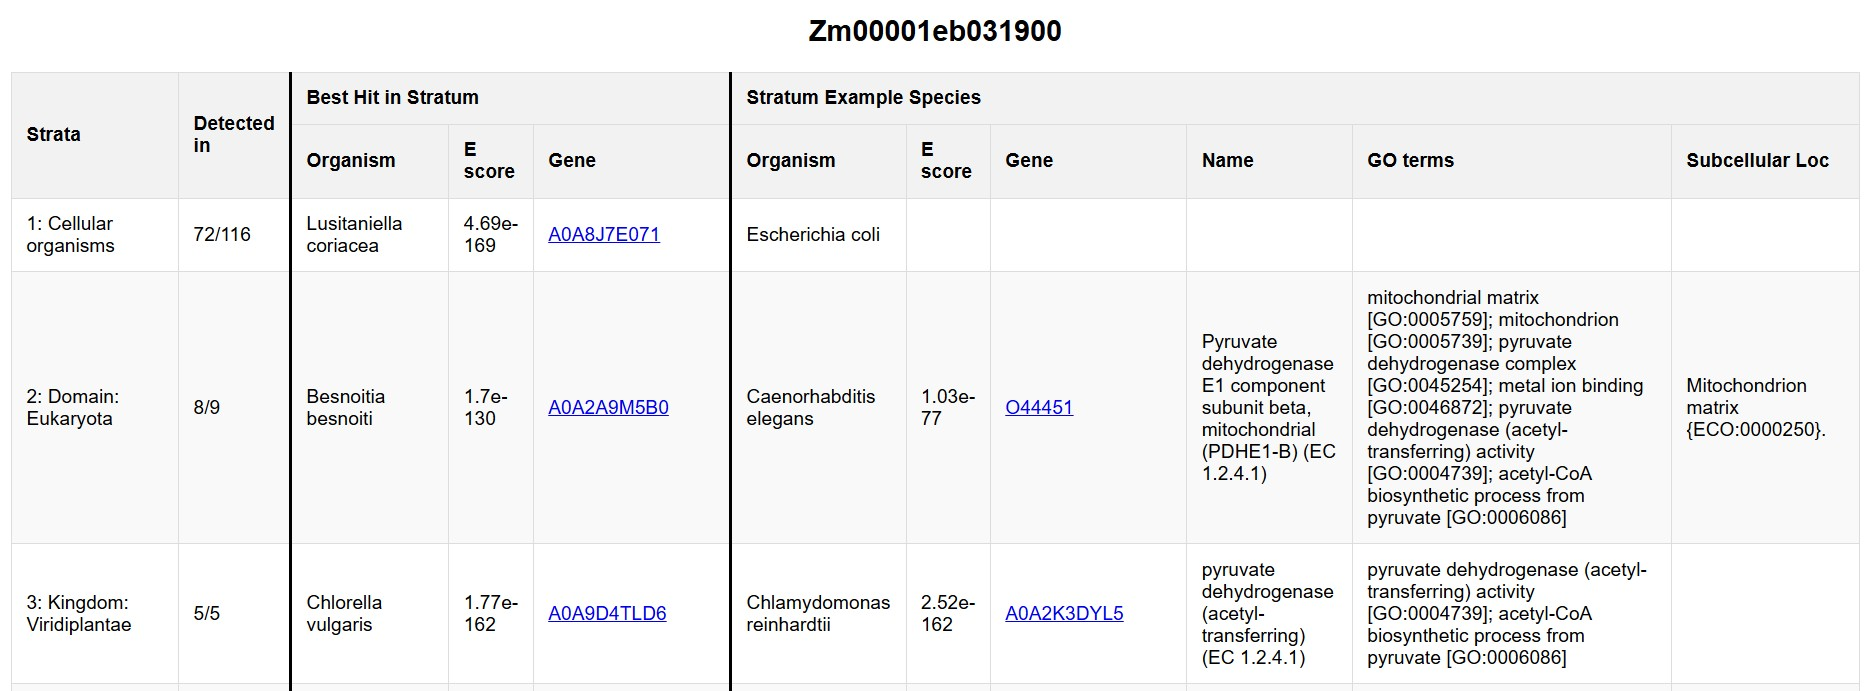
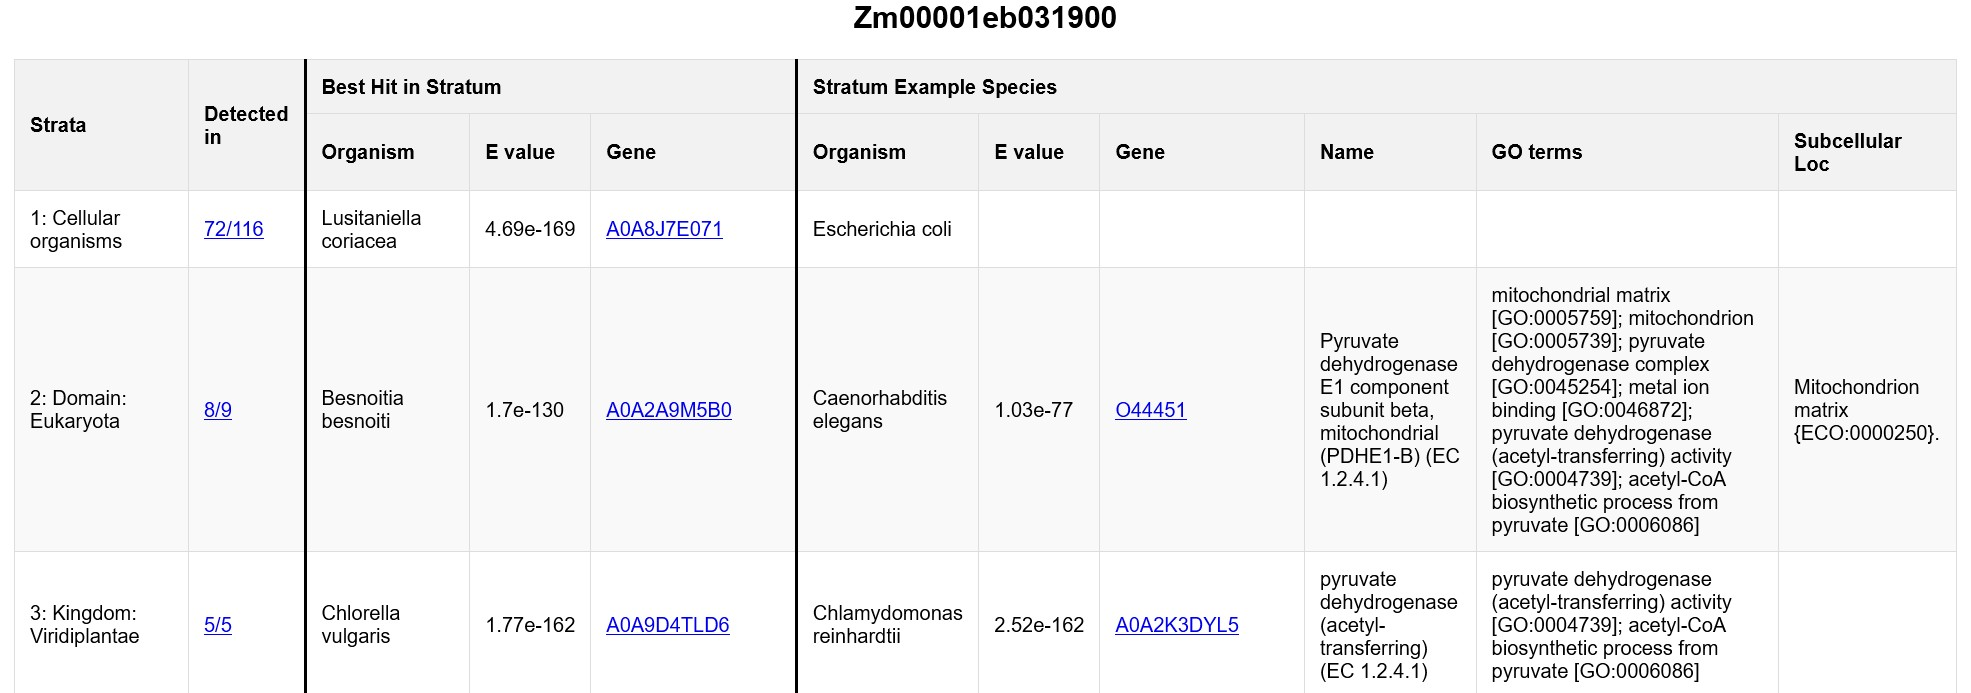
Response to review
Adding:
- BLAST results processing and pages
- Deployment details
- About page: adding clarification on bacteria and archaea in tree; GO term and subcellular localization sources

diff --git a/webtool/gene_pages/blast_results.js b/webtool/gene_pages/blast_results.js
@@ -1,0 +1,127 @@
+// js to make blast results page, reachable from "Detected in" column of gene page
+function getQueryParam(param) {
+    return new URLSearchParams(window.location.search).get(param);
+}
+
+function generateBlastTable(hits, geneId, rowNum) {
+    const container = document.getElementById('tables-container');
+
+    const table = document.createElement('table');
+    table.classList.add('table');
+
+    // Header
+    const thead = document.createElement('thead');
+    thead.innerHTML = `
+        <tr>
+            <th>Organism</th>
+            <th>E value</th>
+            <th>Gene</th>
+            <th>Score</th>
+            <th>Query Start</th>
+            <th>Query End</th>
+            <th>Subject Start</th>
+            <th>Subject End</th>
+        </tr>`;
+    table.appendChild(thead);
+
+    // Body
+    const tbody = document.createElement('tbody');
+    hits.forEach(hit => {
+    const tr = document.createElement('tr');
+
+    const BestOrg = hit.organism;
+    const BestHit = hit.sseqid;
+    const rowNum = hit.phylostratum;
+
+    const CAASOrgs = ["A632", "Huangzaosi", "Jing724", "Jing92", "Dan340", "PH207", "S37", "Xu178", "Ye478", "Zheng58"];
+
+    let hitLink;
+    if (CAASOrgs.includes(BestOrg)) {
+        hitLink = `https://www.maizegdb.org/genome/assembly/Zm-${BestOrg}-REFERENCE-CAAS_FIL-1.0`;
+    } else if (BestOrg === "Chang7 2") {
+        hitLink = `https://www.maizegdb.org/genome/assembly/Zm-Chang-7_2-REFERENCE-CAAS_FIL-1.0`;
+    } else if (BestOrg === "Hp301") {
+        hitLink = `https://jbrowse.maizegdb.org/?data=HP301&loc=${BestHit}&tracks=gene_models_official%2Cuniprot_Escherichia_coli_090%2Cuniprot_Caenorhabditis_elegans_090%2Cuniprot_Chlamydomonas_reinhardtii_090%2Cuniprot_Chara_braunii_090%2Cuniprot_Ceratopteris_richardii_090%2Cuniprot_Arabidopsis_thaliana_090%2Cuniprot_Musa_acuminata_090%2Cuniprot_Ananas_comosus_090%2Cuniprot_Oryza_sativa_090%2Cuniprot_Panicum_virgatum_090%2Cuniprot_Sorghum_bicolor_090`;
+    } else if (BestOrg === "MS71") {
+        hitLink = `https://jbrowse.maizegdb.org/?data=Ms71&loc=${BestHit}&tracks=gene_models_official%2Cuniprot_Escherichia_coli_090%2Cuniprot_Caenorhabditis_elegans_090%2Cuniprot_Chlamydomonas_reinhardtii_090%2Cuniprot_Chara_braunii_090%2Cuniprot_Ceratopteris_richardii_090%2Cuniprot_Arabidopsis_thaliana_090%2Cuniprot_Musa_acuminata_090%2Cuniprot_Ananas_comosus_090%2Cuniprot_Oryza_sativa_090%2Cuniprot_Panicum_virgatum_090%2Cuniprot_Sorghum_bicolor_090`;
+    } else if (rowNum === 14) {
+        hitLink = `https://jbrowse.maizegdb.org/?data=${BestOrg}&loc=${BestHit}&tracks=gene_models_official%2Cuniprot_Escherichia_coli_090%2Cuniprot_Caenorhabditis_elegans_090%2Cuniprot_Chlamydomonas_reinhardtii_090%2Cuniprot_Chara_braunii_090%2Cuniprot_Ceratopteris_richardii_090%2Cuniprot_Arabidopsis_thaliana_090%2Cuniprot_Musa_acuminata_090%2Cuniprot_Ananas_comosus_090%2Cuniprot_Oryza_sativa_090%2Cuniprot_Panicum_virgatum_090%2Cuniprot_Sorghum_bicolor_090`;
+    } else if (BestOrg === "Zea mays parviglumis TIL11") {
+        hitLink = `https://jbrowse.maizegdb.org/?data=Zv-TIL11&loc=${BestHit}&tracks=gene_models_official%2Cuniprot_Escherichia_coli_090%2Cuniprot_Caenorhabditis_elegans_090%2Cuniprot_Chlamydomonas_reinhardtii_090%2Cuniprot_Chara_braunii_090%2Cuniprot_Ceratopteris_richardii_090%2Cuniprot_Arabidopsis_thaliana_090%2Cuniprot_Musa_acuminata_090%2Cuniprot_Ananas_comosus_090%2Cuniprot_Oryza_sativa_090%2Cuniprot_Panicum_virgatum_090%2Cuniprot_Sorghum_bicolor_090`;
+    } else if (BestOrg === "Zea mays parviglumis TIL01") {
+        hitLink = `https://jbrowse.maizegdb.org/?data=Zv-TIL01&loc=${BestHit}&tracks=gene_models_official%2Cuniprot_Escherichia_coli_090%2Cuniprot_Caenorhabditis_elegans_090%2Cuniprot_Chlamydomonas_reinhardtii_090%2Cuniprot_Chara_braunii_090%2Cuniprot_Ceratopteris_richardii_090%2Cuniprot_Arabidopsis_thaliana_090%2Cuniprot_Musa_acuminata_090%2Cuniprot_Ananas_comosus_090%2Cuniprot_Oryza_sativa_090%2Cuniprot_Panicum_virgatum_090%2Cuniprot_Sorghum_bicolor_090`;
+    } else if (BestOrg === "Zea mays mexicana TIL25") {
+        hitLink = `https://jbrowse.maizegdb.org/?data=Zx-TIL25&loc=${BestHit}&tracks=gene_models_official%2Cuniprot_Escherichia_coli_090%2Cuniprot_Caenorhabditis_elegans_090%2Cuniprot_Chlamydomonas_reinhardtii_090%2Cuniprot_Chara_braunii_090%2Cuniprot_Ceratopteris_richardii_090%2Cuniprot_Arabidopsis_thaliana_090%2Cuniprot_Musa_acuminata_090%2Cuniprot_Ananas_comosus_090%2Cuniprot_Oryza_sativa_090%2Cuniprot_Panicum_virgatum_090%2Cuniprot_Sorghum_bicolor_₀`;
+    } else if (BestOrg === "Zea mays mexicana TIL18") {
+        hitLink = `https://jbrowse.maizegdb.org/?data=Zx-TIL18&loc=${BestHit}&tracks=gene_models_official%2Cuniprot_Escherichia_coli_090%2Cuniprot_Caenorhabditis_elegans_090%2Cuniprot_Chlamydomonas_reinhardtii_090%2Cuniprot_Chara_braunii_090%2Cuniprot_Ceratopteris_richardii_090%2Cuniprot_Arabidopsis_thaliana_090%2Cuniprot_Musa_acuminata_090%2Cuniprot_Ananas_comosus_090%2Cuniprot_Oryza_sativa_090%2Cuniprot_Panicum_virgatum_090%2Cuniprot_Sorghum_bicolor_090`;
+    } else if (BestOrg === "Zea mays huehuetenagensis") {
+        hitLink = `https://jbrowse.maizegdb.org/?data=Zh-RIMHU001&loc=${BestHit}&tracks=gene_models_official%2Cuniprot_Escherichia_coli_090%2Cuniprot_Caenorhabditis_elegans_090%2Cuniprot_Chlamydomonas_reinhardtii_090%2Cuniprot_Chara_braunii_090%2Cuniprot_Ceratopteris_richardii_090%2Cuniprot_Arabidopsis_thaliana_090%2Cuniprot_Musa_acuminata_090%2Cuniprot_Ananas_comosus_090%2Cuniprot_Oryza_sativa_090%2Cuniprot_Panicum_virgatum_₀`;
+    } else if (BestOrg === "Zea diploperennis Gigi") {
+        hitLink = `https://jbrowse.maizegdb.org/?data=Zd-Gigi&loc=${BestHit}&tracks=gene_models_official%2Cuniprot_Escherichia_coli_₀`;
+    } else if (BestOrg === "Zea diploperennis Momo") {
+        hitLink = `https://jbrowse.maizegdb.org/?data=Zd-Momo&loc=${BestHit}&tracks=gene_models_official%2Cuniprot_Escherichia_coli_09₀`;
+    } else if (BestOrg === "Zea nicaraguensis") {
+        hitLink = `https://jbrowse.maizegdb.org/?data=Zn-PI615697&loc=${BestHit}&tracks=gene_models_official%2CAv-Kellogg1287_8_gms%2Cuniprot_Escherichia_coli_₀`;
+        hitLink = `https://maizegdb.org/genome/assembly/Td-FL_9056069_6-REFERENCE-PanAnd-2.0`;
+    } else if (BestOrg === "Tripsacum dactyloides KS") {
+        hitLink = `https://maizegdb.org/genome/assembly/Td-KS_B6_1-REFERENCE-PanAnd-2.0`;
+    } else if (BestOrg === "Anatherum virginicum") {
+        hitLink = `https://jbrowse.maizegdb.org/?data=Av-Kellogg1287_8&loc=${BestHit}&tracks=gene_models_official%2Cuniprot_Escherichia_coli_090%2Cuniprot_Caenorhabditis_elegans_090%2Cuniprot_Chlamydomonas_reinhardtii_090%2Cuniprot_Chara_braunii_090%2Cuniprot_Ceratopteris_richardii_090%2Cuniprot_Arabidopsis_thaliana_090%2Cuniprot_Musa_acuminata_090%2Cuniprot_Ananas_comosus_090%2Cuniprot_Oryza_sativa_090%2Cuniprot_Panicum_virgatum_090%2Cuniprot_Sorghum_bicolor_090`;
+    } else if (BestOrg === "Ginkgo biloba") {
+        hitLink = `https://datacommons.cyverse.org/browse/iplant/home/shared/commons_repo/curated/oneKP_capstone_2019/transcript_assemblies/SGTW-Ginkgo_biloba`;
+    } else {
+        hitLink = `https://www.uniprot.org/uniprotkb/${BestHit}`;
+    }
+
+    tr.innerHTML = `
+        <td>${hit.organism}</td>
+        <td>${hit.evalue}</td>
+        <td><a href="${hitLink}" target="_blank">${hit.sseqid}</a></td>
+        <td>${hit.score}</td>
+        <td>${hit.qstart}</td>
+        <td>${hit.qend}</td>
+        <td>${hit.sstart}</td>
+        <td>${hit.send}</td>
+    `;
+    tbody.appendChild(tr);
+});
+
+    table.appendChild(tbody);
+    container.appendChild(table);
+}
+
+window.onload = function () {
+    const geneId = getQueryParam('page');
+    const rowNum = parseInt(getQueryParam('row'));
+
+    // Set back link
+    document.getElementById('back-link').href = `index.html?page=${encodeURIComponent(geneId)}`;
+    document.getElementById('page-title').textContent =
+        `BLAST Results — ${geneId} (Search Space: Phylostratum ${rowNum})`;
+    document.title = `BLAST: ${geneId} PS${rowNum}`;
+
+    document.getElementById('loadingOverlay').style.display = 'flex';
+
+
+    // NOTE: one example json of BLAST results is provided. They should be generated for all genes and added to the gene_pages/blast_results_by_gene/ directory as {geneId}_blast_results.json
+    fetch(`blast_results_by_gene/${encodeURIComponent(geneId)}_blast_results.json`)
+        .then(r => {
+            if (!r.ok) throw new Error('Failed to load BLAST data');
+            return r.json();
+        })
+        .then(data => {
+            const hits = data.blast_results.filter(
+                d => d.id === geneId && d.phylostratum === rowNum
+            );
+            if (hits.length > 0) {
+                generateBlastTable(hits, geneId, rowNum);
+            } else {
+                document.getElementById('tables-container').textContent =
+                    'No BLAST results found for this gene and stratum.';
+            }
+        })
+        .catch(err => console.error('Error:', err))
+        .finally(() => {
+            document.getElementById('loadingOverlay').style.display = 'none';
+        });
+};

diff --git a/webtool/index.html b/webtool/index.html
@@ -37,7 +37,7 @@
       <div class="tool-description">
           <!-- NOTE: change tool description here as desired -->
   <p>
-    Welcome to the MaizeGDB phylostrata tool! 
+    Welcome to the MaizeGDB Phylostrata Tool! 
    </p>
    <p> 
     Phylostratigraphy determines the level of evolutionary conservation of a given protein, shown here on a scale from 1 (cellular organisms, most conserved) to 14 (<i>Zea mays mays</i>, least conserved). For more information, check out the <a href="#about">About page</a>.
@@ -113,7 +113,7 @@
   </figure>
 
     <p>
-    Here, 14 phylostrata were considered, ranging from the most conserved (Phylostratum 1: Cellular Organisms) to the least conserved (Phylostratum 14: <i>Zea mays mays</i>) (see Fig. 1). Example species were chosen for each phylostratum based on quality of UniProt assemblies, status as model organism, etc.
+    Here, 14 phylostrata were considered, ranging from the most conserved (Phylostratum 1: Cellular Organisms, representing bacteria and archaea) to the least conserved (Phylostratum 14: maize-specific, representing <i>Zea mays mays</i>) (see Fig. 1). The tree used for this analysis included 48 proteomes from maize and other members of Andropogoneae obtained from MaizeGDB, as well as proteomes of 57 other eukaryotes and 116 prokaryotes (10 archaea and 106 bactiera) obtained from UniProt. Example species were chosen for each phylostratum based on quality of UniProt assemblies, status as model organism, etc.
     </p>
 
   <h3>Search Results</h3>
@@ -137,16 +137,16 @@
     </figcaption>
   </figure>
 
-  <h4>Detail pages</h4>
+  <h4>Details pages</h4>
   <p>
-    Clicking on a result image will bring you to the gene detail page. Detail pages can also be downloaded from the search results as html or txt files.
+    Clicking on a result image will bring you to the gene details page. Details pages can also be downloaded from the search results as html or txt files.
   </p>
 
   <p>
-    The detail page contains 14 rows, one for each phylostratum. There are 11 columns:
+    The Details page contains 14 rows, one for each phylostratum. There are 11 columns:
     <ul>
       <li><strong>Strata</strong>: Number and name of phylostratum.</li>
-      <li><strong>Detected in</strong>: In how many of the species in this phylostratum was this gene found? For example, homologs of Zm00001eb031900 were identified in 72 out of 116 of the members of the Cellular Organisms phylostratum (see Fig. 4).</li>
+      <li><strong>Detected in</strong>: In how many of the species in this phylostratum was this gene found? For example, homologs of Zm00001eb031900 were identified in 72 out of 116 of the members of the Cellular Organisms phylostratum (see Fig. 4). Clicking on this column will bring you to the BLAST results pages.</li>
       <li><strong>Best Hit in Stratum</strong>: These three columns show details for the best hit; that is, the highest-scoring homolog of the gene found in <strong>any species</strong> within the current phylostratum.</li>
       <ul>
         <li><strong>Organism</strong>: Organism in which the best hit was found.</li>
@@ -159,8 +159,8 @@
         <li><strong>E value</strong>: E value of the best hit in the example organism.</li>
         <li><strong>Gene</strong>: Gene ID in the example organism. For most organisms, these are UniProt IDs. For members of <i>Zea</i> and the <a href="https://maizegdb.org/PanAnd_project"> PanAnd project</a>, these are MaizeGDB IDs. For <i>Ginkgo biloba</i>, these are IDs from the <a href="https://datacommons.cyverse.org/browse/iplant/home/shared/commons_repo/curated/oneKP_capstone_2019/transcript_assemblies/SGTW-Ginkgo_biloba">OneKP project</a>.
         <li><strong>Name</strong>: Gene/protein name in the example organism. For most organisms, these are protein names from UniProt. For members of <i>Zea</i> and the <a href="https://maizegdb.org/PanAnd_project"> PanAnd project</a>, these are gene descriptions from <a href="https://maizemine.rnet.missouri.edu/maizemine/">MaizeMine</a>.</li>
-        <li><strong>GO terms</strong>: Gene Ontology terms. For most organisms, these are from UniProt. For members of the <a href="https://maizegdb.org/PanAnd_project"> PanAnd project</a>, these are from MaizeGDB EnTAP results (e.g., <a href="https://download.maizegdb.org/Zd-Gigi-REFERENCE-PanAnd-1.0/">Zd-Gigi-REFERENCE-PanAnd-1.0_Zd00001ab.1_entap_results.tsv.gz</a>). For B73, these are from <a href="https://maizemine.rnet.missouri.edu/maizemine/">MaizeMine</a>.</li>
-        <li><strong>Subcellular Loc</strong>: Subcellular location. For most organisms, these are from UniProt. For members of <i>Zea</i> and the <a href="https://maizegdb.org/PanAnd_project"> PanAnd project</a>, these were identified with DeepLoc2.1.</li>
+        <li><strong>GO terms</strong>: Gene Ontology terms. For members of the <a href="https://maizegdb.org/PanAnd_project"> PanAnd project</a>, these are from MaizeGDB EnTAP results (e.g., <a href="https://download.maizegdb.org/Zd-Gigi-REFERENCE-PanAnd-1.0/">Zd-Gigi-REFERENCE-PanAnd-1.0_Zd00001ab.1_entap_results.tsv.gz</a>). For B73, these are from <a href="https://maizemine.rnet.missouri.edu/maizemine/">MaizeMine</a>. For all other organisms, GO terms are obtained directly from UniProt. </li> 
+        <li><strong>Subcellular Loc</strong>: Subcellular location. For members of <i>Zea</i> and the <a href="https://maizegdb.org/PanAnd_project"> PanAnd project</a>, these were identified with DeepLoc2.1. For all other organisms, subcellular localization and any associated evidence codes are obtained directly from UniProt. </li>
       </ul>
     </ul>
     <ul>
@@ -172,9 +172,14 @@
     <figure>
     <img src="other_images/details_example.jpg" alt="Details_example" style="max-width: 1200px; width: 100%; margin-top: 1em;" />
     <figcaption>
-      Fig. 4: Top of Zm00001eb031900 detail page.
+      Fig. 4: Top of Zm00001eb031900 details page.
     </figcaption>
   </figure>
+
+  <h4>BLAST result pages</h4>
+  <p>
+    Clicking on an entry in the "Detected in" column of a Details page will bring you to the BLAST results pages, which show the best BLAST hit for the query protein in each target organism in a given phylostratum. These results are obtained from the `merge_besthits()` function in the `phylostratr` package.
+  </p>
 
   <h2>Further reading</h2>
     <ul>

diff --git a/webtool/gene_pages/blast_results.html b/webtool/gene_pages/blast_results.html
@@ -1,0 +1,46 @@
+<!-- html to make blast results page, reachable from "Detected in" column of gene page -->
+<!DOCTYPE html>
+<html lang="en">
+<head>
+    <meta charset="UTF-8">
+    <meta name="viewport" content="width=device-width, initial-scale=1.0">
+    <title>BLAST Results</title>
+    <style>
+        body { font-family: Arial, sans-serif; margin: 20px; }
+        h2 { text-align: center; }
+        table { width: 100%; border-collapse: collapse; margin: 20px 0; }
+        th, td { padding: 12px; text-align: left; border: 1px solid #ddd; }
+        th { background-color: #f2f2f2; }
+        tr:nth-child(even) { background-color: #f9f9f9; }
+        td.divider-left, th.divider-left { border-left: 3px solid #000; }
+        #loadingOverlay {
+            position: fixed; top: 0; left: 0; width: 100%; height: 100%;
+            background: rgba(255,255,255,0.8); z-index: 1000;
+            display: flex; flex-direction: column;
+            align-items: center; justify-content: center;
+            font-size: 1.2rem; font-weight: bold; color: #333;
+        }
+        .spinner {
+            border: 6px solid #f3f3f3; border-top: 6px solid #3498db;
+            border-radius: 50%; width: 40px; height: 40px;
+            animation: spin 1s linear infinite;
+        }
+        @keyframes spin { 0% { transform: rotate(0deg); } 100% { transform: rotate(360deg); } }
+        #back-link { display: block; margin-bottom: 10px; }
+    </style>
+</head>
+<body>
+
+<a id="back-link" href="#" style="display:none;">← Back to Details page</a>
+<!--  don't need link back to details page anymore because opening BLAST in new tab  -->
+<h2 id="page-title">BLAST Results</h2>
+<div id="tables-container"></div>
+
+<div id="loadingOverlay" style="display:none;">
+    <div class="spinner"></div>
+    <div style="margin-top:1rem;">Loading... Please wait.</div>
+</div>
+
+<script src="blast_results.js" defer></script>
+</body>
+</html>

diff --git a/webtool/gene_pages/script.js b/webtool/gene_pages/script.js
@@ -63,9 +63,13 @@ function generateTable(pageData) {
 
         // "Detected in" cell
         const detectedInCell = document.createElement('td');
-        detectedInCell.textContent = row['detect.frac'];
+        const detectedInLink = document.createElement('a');
+        detectedInLink.textContent = row['detect.frac'];
+        detectedInLink.href = `blast_results.html?page=${encodeURIComponent(pageData.id)}&row=${row.row}`;
+        detectedInLink.title = "View BLAST results for this stratum";
+        detectedInLink.target = "_blank";  // open in new tab
+        detectedInCell.appendChild(detectedInLink);
         rowElement.appendChild(detectedInCell);
-        
 
         // Best hit cells (sub-columns): best organism, E value, and gene name
         const hitsData = row.hits;

diff --git a/webtool/gene_pages/index.html b/webtool/gene_pages/index.html
@@ -81,7 +81,7 @@
 </head>
 <body>
 
-<h2 id="page-title">Phylostrata Gene Table</h2>
+<h2 id="page-title">Phylostrata Details Page</h2>
 
 <!-- This will hold the dynamically created tables -->
 <div id="tables-container"></div>

diff --git a/data_processing/README.md b/data_processing/README.md
@@ -1,9 +1,10 @@
 # Data Processing
 
-The goal of the code in this subfolder is to process the `Rdata` outupt from Phylostratr and combine it with UniProt data (subcellular localization and GO terms) to create the `json` files used for the webtool visualization. The goal is to end with two json files:
+The goal of the code in this subfolder is to process the `Rdata` outupt from Phylostratr and combine it with UniProt data (subcellular localization and GO terms) to create the `json` files used for the webtool visualization. The goal is to end with three types of json files:
 
 1. The `cleaned_uniprot_table_loc.json` file is used to build the details page for each protein. It has the best hit for each protein within each stratum, as well as other details including subcellular localization and GO terms in the chosen example species for each stratum. For an example of this file format, see [uniprot_table_loc_mini.json](https://github.com/LTibbs/PhylostrataWebtool/blob/main/data_processing/uniprot_table_loc_mini.json). To use in the webtool, place this file in the `webtool/gene_pages` directory.
 2. The `gene_fill.json` file is used to build the visual search result image showing the stratum level of each protein. It has the stratum of each protein as well as the fill percentage for this protein, which is calculated based on the stratum number. For an example of this file format, see [gene_fill_mini.json](https://github.com/LTibbs/PhylostrataWebtool/blob/main/data_processing/gene_fill_mini.json). To use in the webtool, place this file in the `webtool/image_code` directory.
+3. The `${geneID}_blast_results.json` files are used to build the BLAST search results pages, linked from the "Detected in" column of the Details pages. They contain the top BLAST hit for the query protein within each target organism. For an example of this file format, see [Zm00001eb000010_blast_results.json](https://github.com/LTibbs/PhylostrataWebtool/blob/main/webtool/gene_pages/Zm00001eb000010_blast_results.json). To use in the webtool, place these files in the `webtool/gene_pages/blast_results_by_gene` directory.
 
 In this code, I have used `NOTE` in comments to denote places where the user may want or need to make changes to customize the results. For example, the user can specify the example species for each phylostratum or choose to combine multiple strata into one. 
 

diff --git a/webtool/README.md b/webtool/README.md
@@ -6,8 +6,19 @@ In this code, I have used `NOTE` in comments to denote places where the user may
 In the main folder contains scripts used to make the webtool main pages, including the search box, downloads, etc.
 
 There are also three subfolders:
-1. [gene_pages](https://github.com/LTibbs/PhylostrataWebtool/tree/main/webtool/gene_pages) contains the scripts to create the gene details pages.
+1. [gene_pages](https://github.com/LTibbs/PhylostrataWebtool/tree/main/webtool/gene_pages) contains the scripts to create the gene details pages and associated BLAST results pages.
 2. [image_code](https://github.com/LTibbs/PhylostrataWebtool/tree/main/webtool/image_code) contains the scripts to create the visualization of the phylostrata results.
 3. [other_images](https://github.com/LTibbs/PhylostrataWebtool/tree/main/webtool/other_images) contains all of the other files referenced in the code, for example images of the strata example species, results files for the Downloads page, etc. 
 
+## Deployment
+The Phylostrata tool has been containerized into a docker image and is available at <a href="https://www.docker.io/maizegdb/phylostrata">docker.io/maizegdb/phylostrata</a>. MaizeGDB is running the tool as a container on our Podman server, but it can also be deployed locally. If you have docker installed on your device, you can download and run the tool with this command in the terminal:
 
+`$ docker run -it -d -p 8080:80 --name phylostrata maizegdb/phylostrata`
+
+Then open a web browser and navigate to http://localhost:8080. You should have full access to the tool from your local device here. To stop the container run this command:
+
+`$ docker stop phylostrata`
+
+The container will stop running with this command, but the image is still downloaded to your device and is taking up disk space. To remove the image, run this command:
+
+`$ docker rm phylostrata`

diff --git a/README.md b/README.md
@@ -5,7 +5,7 @@ This repository contains the code for the MaizeGDB Phylostrata Tool at [https://
 Read the pre-print at https://doi.org/10.64898/2025.12.19.695500.
 
 ## maize_phylostratr_analysis
-Contains the code used for phylostratr analysis of maize, as well as description of input and output files for an example run with test data. Analysis based on an updated version of the phylostratr package, see [https://github.com/LTibbs/phylostratr](https://github.com/LTibbs/phylostratr) and [https://doi.org/10.1093/bioinformatics/btz171](https://doi.org/10.1093/bioinformatics/btz171) for more information about this package.  
+Contains the code used for phylostratr analysis of maize, as well as description of input and output files for an example run with test data. Analysis based on an updated version of the phylostratr package, see [https://github.com/arendsee/phylostratr](https://github.com/arendsee/phylostratr) or [https://github.com/LTibbs/phylostratr](https://github.com/LTibbs/phylostratr) and [https://doi.org/10.1093/bioinformatics/btz171](https://doi.org/10.1093/bioinformatics/btz171) for more information about this package.  
 
 ## data_processing
 Contains the code used to process phylostratr output to format it for display in the web tool. For users who would like to implement this tool for their own species or use case, sections to customize are annotated with "NOTE" in the comments.
